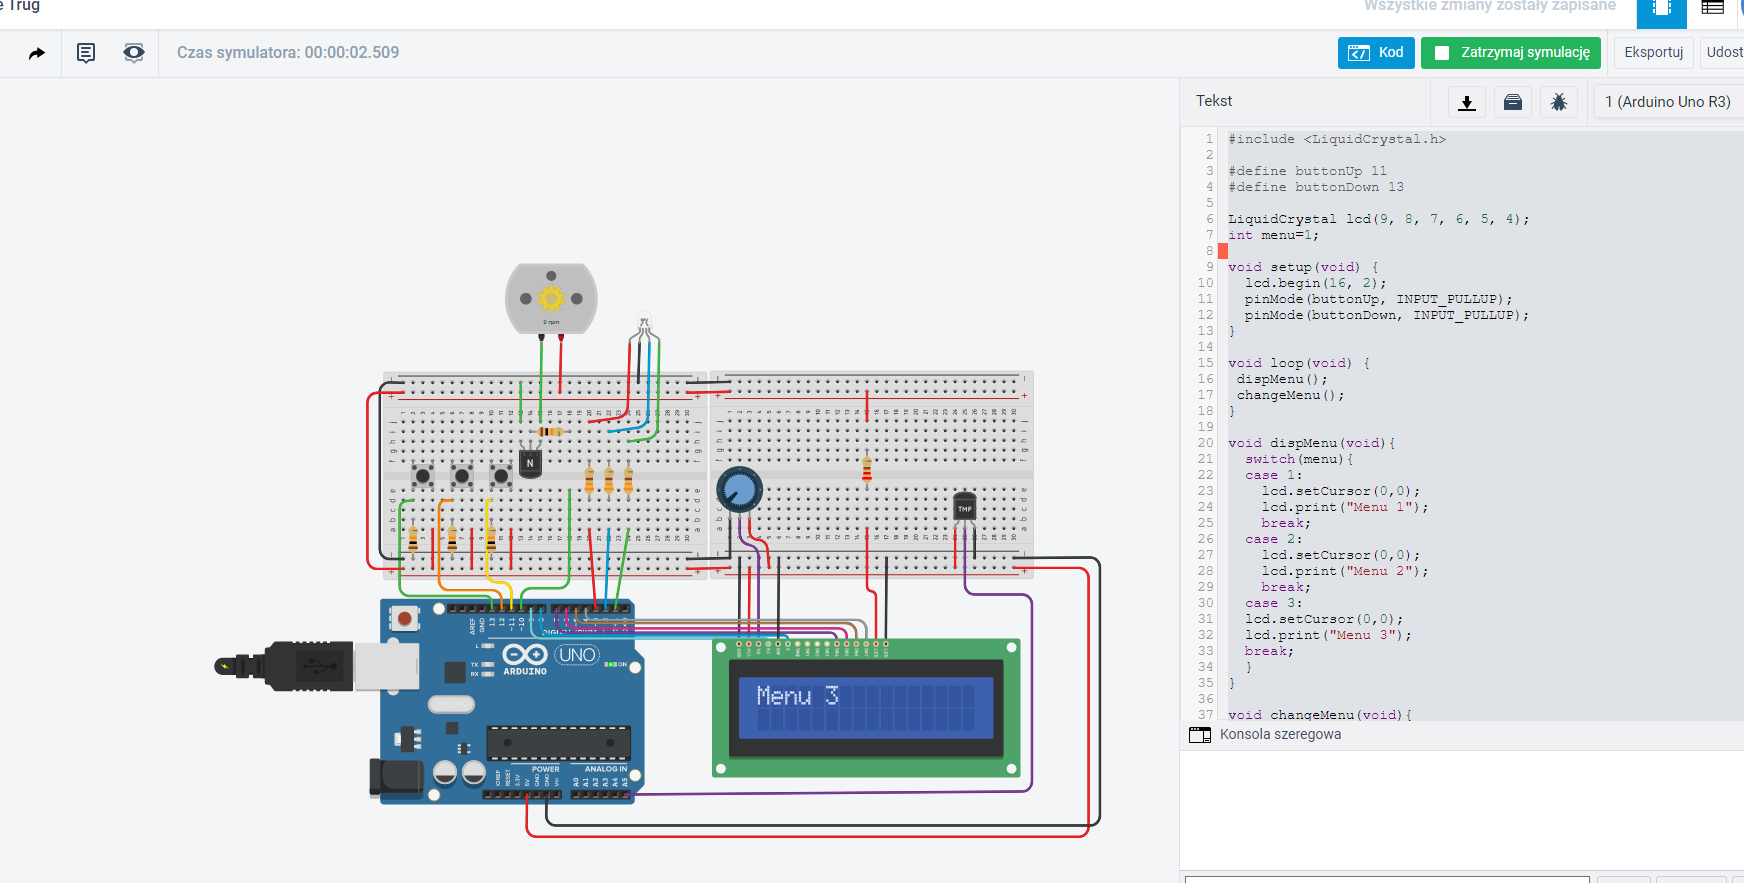
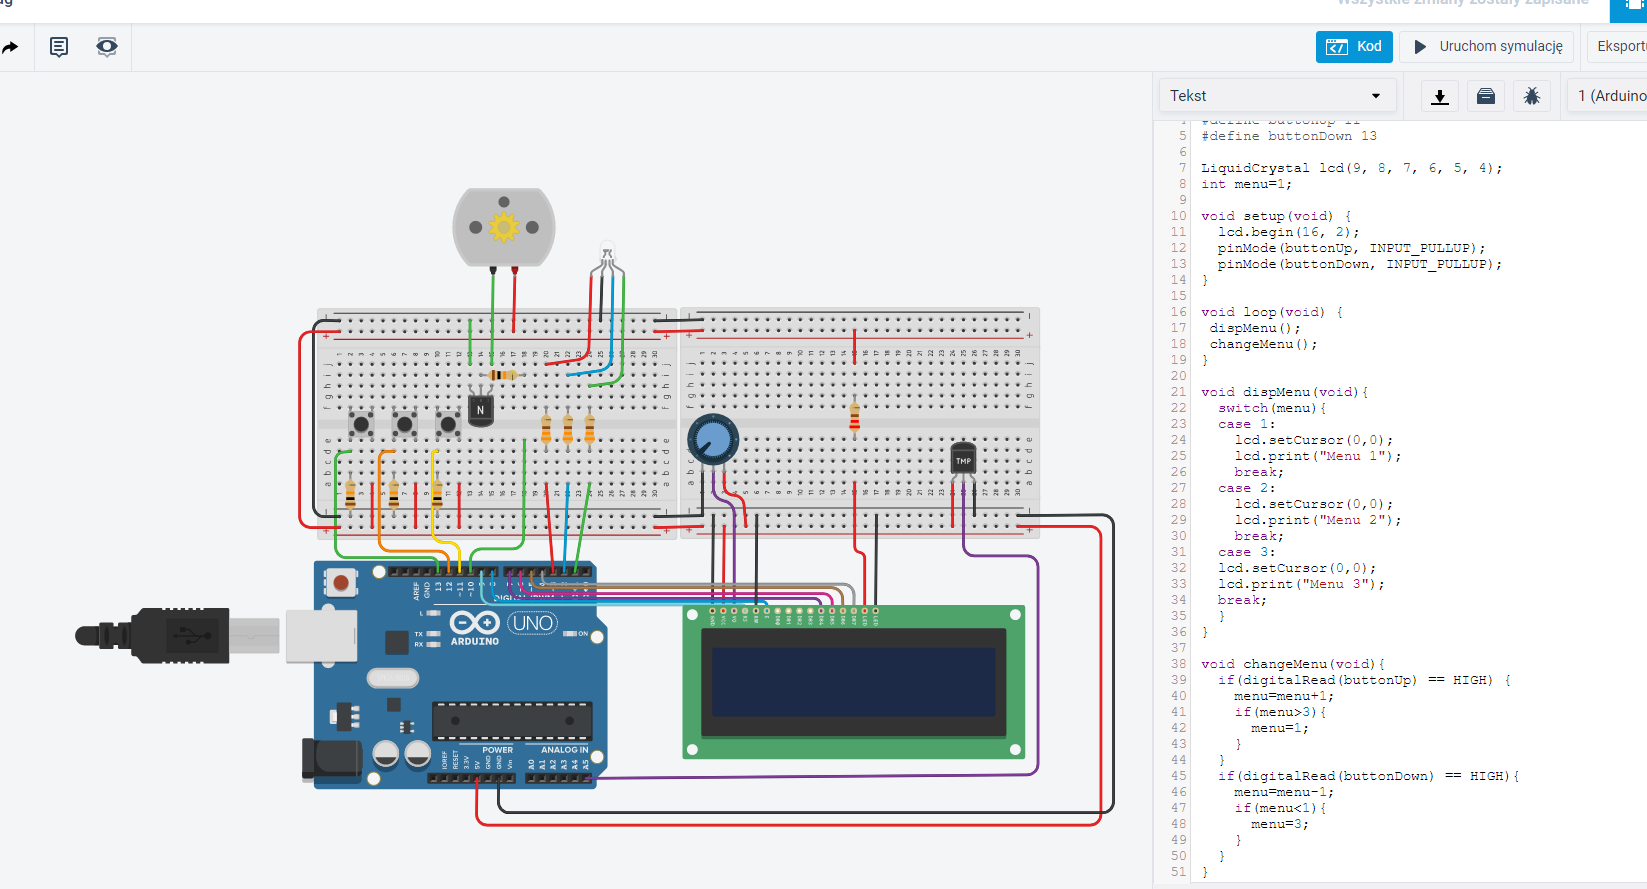
Wykonano zadanie 3.2.2 – sterowanie ekranami

diff --git a/Zadanie-3-2/src/main.cpp b/Zadanie-3-2/src/main.cpp
@@ -38,13 +38,13 @@ void dispMenu(void){
 void changeMenu(void){
   if(digitalRead(buttonUp) == HIGH) {
     menu=menu+1;
-    if(menu>1){
+    if(menu>3){
       menu=1;
     }
   }
   if(digitalRead(buttonDown) == HIGH){
     menu=menu-1;
-    if(menu=1){
+    if(menu<1){
       menu=3;
     }
   }
